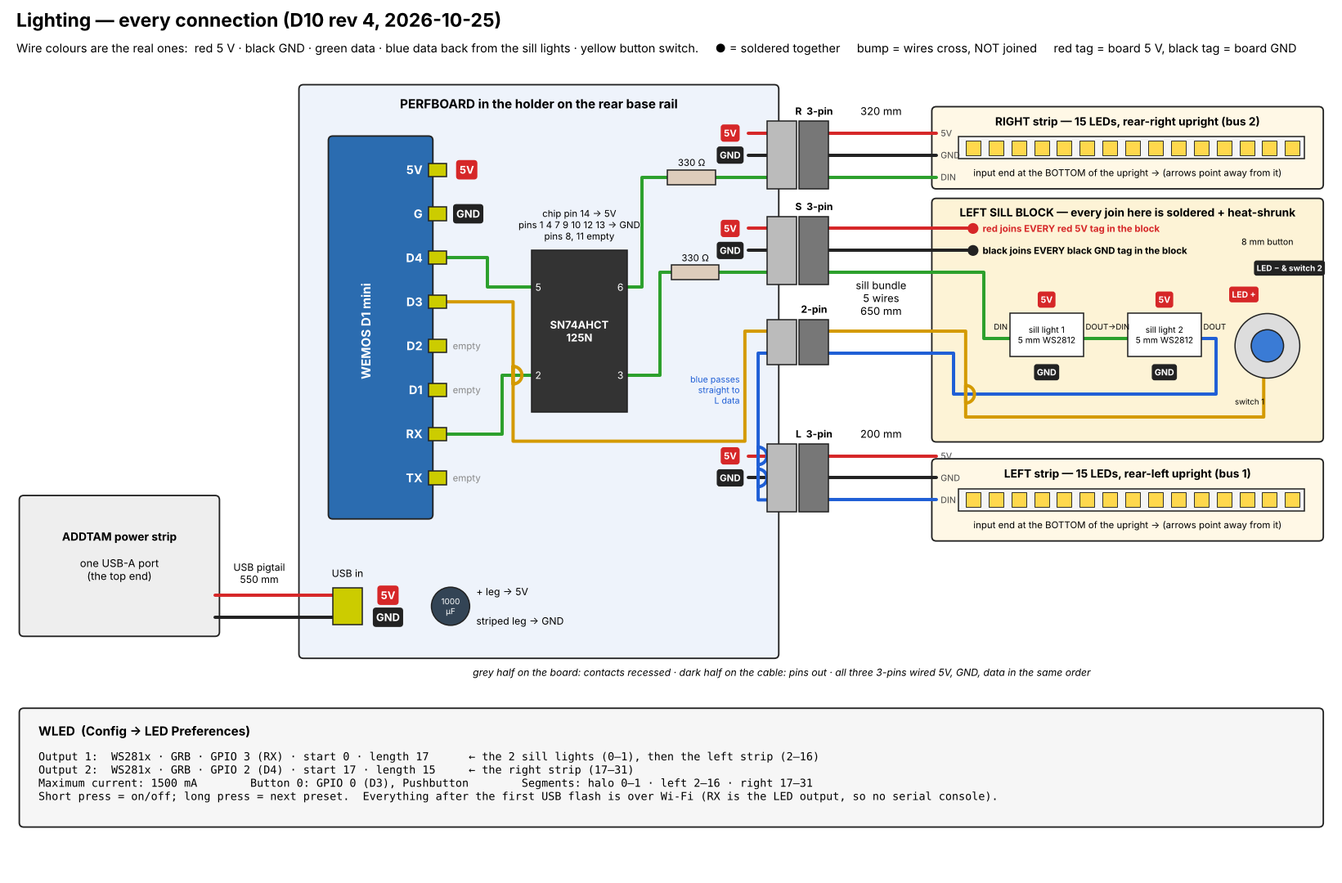
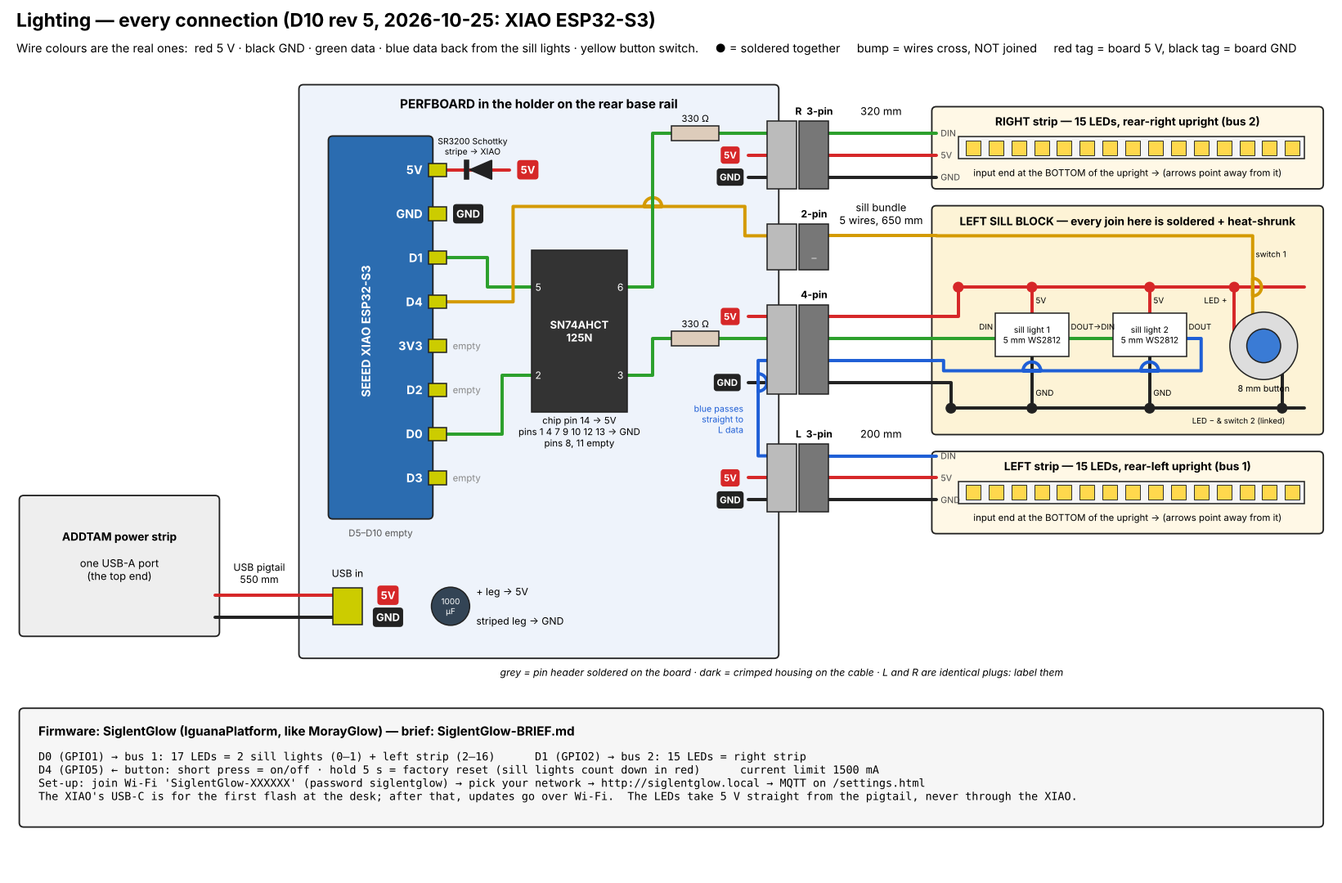
Lighting rev 5: XIAO ESP32-S3 + SiglentGlow firmware brief; wiring sheets
The lighting controller moves from a D1 mini running WLED to a XIAO
ESP32-S3 running SiglentGlow, Gareth's own firmware on IguanaPlatform
(the MorayGlow architecture).

- SiglentGlow-BRIEF.md: the brief for Claude Code (hardware, behaviour,
  REST/WS, HA MQTT with brightness, UI, tests, acceptance)
- parts/wiring/wiring-4-connections.png (src/wiring_connections.py):
  every connection — SN74AHCT125N on both data lines, XIAO D0 bus 1
  (2 sill + 15 left), D1 bus 2 (15 right), D4 button, 5 V into the
  XIAO through an SR3200 Schottky, 2.54 mm locking headers on the
  board with crimped housings (4-pin + 2-pin sill, 3-pin L and R)
- parts/wiring/breadboard-test.png (src/breadboard_test.py): the
  bench test on the SPD3303X-E, every chip leg labelled
- wiring-1..3 stay for the runs and lengths; where they differ, sheet 4
  wins

Claude-Session: https://claude.ai/code/session_01TuDyXwZyKLTSVDyKk418oz

diff --git a/src/wiring_connections.py b/src/wiring_connections.py
@@ -1,7 +1,7 @@
-# wiring_connections.py — every connection in the lighting, on one sheet (D10 rev 4, 2026-10-25; v2 same day: the sill
-# bundle on a 3-pin S (5V, GND, data — the strips' order) + a 2-pin (switch, data back); no 4-pin in hand).
-# Supersedes wiring-1-schematic.png where they differ: SN74AHCT125N level shifter added (bus 1 and bus 2 data pass
-# through it), strips are 15 LEDs each (30/m strip), sill bundle on JST-SM 4-pin + 2-pin, strips on 3-pin pairs.
+# wiring_connections.py — every connection in the lighting, on one sheet (D10 rev 4, 2026-10-25).
+# SN74AHCT125N level shifter on both data lines; strips are 15 LEDs each (30/m strip); every plug is a 2.54 mm locking
+# pin header (KF2510 type) soldered on the board with a crimped housing on the cable (SN-28B crimper): sill bundle on a
+# 4-pin (red, green, blue, black) + 2-pin (yellow), strips on 3-pin L and R.
 # Output: parts/wiring/wiring-4-connections.png
 import os, numpy as np, matplotlib; matplotlib.use("Agg")
 import matplotlib.pyplot as plt
@@ -77,73 +77,78 @@ txt((CX0 + CX1) / 2, 74, "SN74AHCT\n125N", ha="center", color="w", fontsize=8.5,
 IN5, IN2 = 80, 68
 for y, a, b in ((IN5, "5", "6"), (IN2, "2", "3")):
     txt(CX0 + 0.5, y, a, color="w", fontsize=8); txt(CX1 - 0.5, y, b, color="w", fontsize=8, ha="right")
-# connectors (board halves, contacts recessed) at x 104 — every 3-pin in the same order: 5V, GND, data
-J4 = dict(v5=101, gnd=98, data=95); J1 = dict(v5=88, gnd=85, data=82); J2 = dict(sw=74, blu=71); J3 = dict(v5=57, gnd=54, data=51)
+# connectors: 2.54 mm locking pin headers (KF2510 type) soldered on the board, crimped housings on the cables
+J4 = dict(data=101, v5=98, gnd=95); J2 = dict(sw=87, nc=84); J1 = dict(red=76, grn=73, blu=70, blk=67); J3 = dict(data=57, v5=54, gnd=51)
 def conn(ys, name):
     y0, y1 = min(ys) - 1.6, max(ys) + 1.6
     ax.add_patch(Rectangle((103, y0), 4, y1 - y0, fc="#bbb", ec=BLK, zorder=5))
     ax.add_patch(Rectangle((107.4, y0), 4, y1 - y0, fc="#777", ec=BLK, zorder=5))
     txt(109.4, y1 + 1.4, name, ha="center", fontsize=8, weight="bold")
-conn(J4.values(), "R  3-pin"); conn(J1.values(), "S  3-pin"); conn(J2.values(), "2-pin"); conn(J3.values(), "L  3-pin")
-txt(105, 27.5, "grey half on the board: contacts recessed · dark half on the cable: pins out · all three 3-pins wired 5V, GND, data in the same order", ha="center", fontsize=8, style="italic")
+conn(J4.values(), "R  3-pin"); conn(J2.values(), "2-pin"); conn(J1.values(), "4-pin"); conn(J3.values(), "L  3-pin")
+txt(105, 27.5, "grey = pin header soldered on the board · dark = crimped housing on the cable · L and R are identical plugs: label them",
+    ha="center", fontsize=8, style="italic")
 # board wiring
-txt((CX0 + CX1) / 2, 88.5, "chip pin 14 → 5V\npins 1 4 7 9 10 12 13 → GND\npins 8, 11 empty", ha="center", fontsize=7.5)
+txt((CX0 + CX1) / 2, 60.3, "chip pin 14 → 5V\npins 1 4 7 9 10 12 13 → GND\npins 8, 11 empty", ha="center", fontsize=7.5)
 path([(59.4, P["D4"]), (65, P["D4"]), (65, IN5), (CX0, IN5)], GRN)
 path([(59.4, P["RX"]), (67, P["RX"]), (67, IN2), (CX0, IN2)], GRN)
-path([(59.4, P["D3"]), (68.5, P["D3"]), (68.5, 59), (100, 59), (100, J2["sw"]), (103, J2["sw"])], YEL, hops=[(68.5, IN2)])
-def res(x, y):
-    ax.add_patch(Rectangle((x, y - 1), 6.5, 2, fc="#dcb", ec=BLK, zorder=5)); txt(x + 3.25, y + 2, "330 Ω", ha="center", fontsize=7.5)
-path([(CX1, IN5), (86, IN5), (86, J4["data"]), (89.5, J4["data"])], GRN); res(89.5, J4["data"]); path([(96, J4["data"]), (103, J4["data"])], GRN)
-path([(CX1, IN2), (88.5, IN2), (88.5, J1["data"]), (90, J1["data"])], GRN); res(90, J1["data"]); path([(96.5, J1["data"]), (103, J1["data"])], GRN)
-for d in (J4, J1, J3):
+YSW = 91
+path([(59.4, P["D3"]), (68.5, P["D3"]), (68.5, YSW), (100, YSW), (100, J2["sw"]), (103, J2["sw"])], YEL, hops=[(87.5, YSW)])
+for yout, ydst in ((IN5, J4["data"]), (IN2, J1["grn"])):
+    path([(CX1, yout), (87.5, yout), (87.5, ydst), (90, ydst)], GRN)
+    ax.add_patch(Rectangle((90, ydst - 1), 6.5, 2, fc="#dcb", ec=BLK, zorder=5)); txt(93.25, ydst + 2, "330 Ω", ha="center", fontsize=7.5)
+    path([(96.5, ydst), (103, ydst)], GRN)
+for d in (J4, J3):
     path([(100.5, d["v5"]), (103, d["v5"])], RED); tag(98, d["v5"], "5V", RED, fs=7.5)
     path([(100.5, d["gnd"]), (103, d["gnd"])], BLK); tag(98, d["gnd"], "GND", BLK, fs=7.5)
-path([(103, J2["blu"]), (101.8, J2["blu"]), (101.8, J3["data"]), (103, J3["data"])], BLU, hops=[(101.8, J3["v5"]), (101.8, J3["gnd"])])
-txt(99.3, 66, "blue passes\nstraight to\nL data", ha="right", fontsize=7, color=BLU)
+path([(100.5, J1["red"]), (103, J1["red"])], RED); tag(98, J1["red"], "5V", RED, fs=7.5)
+path([(100.5, J1["blk"]), (103, J1["blk"])], BLK); tag(97.6, J1["blk"], "GND", BLK, fs=7.5)
+path([(103, J1["blu"]), (101.8, J1["blu"]), (101.8, J3["data"]), (103, J3["data"])], BLU, hops=[(101.8, J1["blk"])])
+txt(99.8, 62, "blue passes\nstraight to\nL data", ha="right", fontsize=7, color=BLU)
+ax.text(109.4, J2["nc"], "–", ha="center", va="center", fontsize=8, color="#ddd", zorder=9)
 
 # ---------------------------------------------------------------- cables out
-for d, cols in ((J4, dict(v5=RED, gnd=BLK, data=GRN)), (J1, dict(v5=RED, gnd=BLK, data=GRN)), (J3, dict(v5=RED, gnd=BLK, data=BLU))):
-    for k, c in cols.items(): path([(111.4, d[k]), (126, d[k])], c)
-for k, c in (("sw", YEL), ("blu", BLU)): path([(111.4, J2[k]), (126, J2[k])], c)
-txt(118.5, 104, "320 mm", ha="center", fontsize=8.5); txt(118.5, 60, "200 mm", ha="center", fontsize=8.5)
-txt(118.5, 78.5, "sill bundle\n5 wires\n650 mm", ha="center", fontsize=8.5)
+for y, c in ((J4["data"], GRN), (J4["v5"], RED), (J4["gnd"], BLK)): path([(111.4, y), (126, y)], c)
+txt(118.5, 104, "320 mm", ha="center", fontsize=8.5)
+for y, c in ((J3["data"], BLU), (J3["v5"], RED), (J3["gnd"], BLK)): path([(111.4, y), (126, y)], c)
+txt(118.5, 60, "200 mm", ha="center", fontsize=8.5)
+for y, c in ((J2["sw"], YEL), (J1["red"], RED), (J1["grn"], GRN), (J1["blu"], BLU), (J1["blk"], BLK)): path([(111.4, y), (126, y)], c)
+txt(118.5, 90, "sill bundle\n5 wires, 650 mm", ha="center", fontsize=8.5)
 
 # ---------------------------------------------------------------- strips
-def strip(y0, name, d):
+def strip(y0, name, ydata, yv5, ygnd):
     box(126, y0, 52, 10, fc="#fff8e6")
     ax.add_patch(Rectangle((129, y0 + 3.5), 47, 3, fc="#f5f5f5", ec=BLK, zorder=4))
     for i in range(15): ax.add_patch(Rectangle((130 + i * 3.1, y0 + 4), 2, 2, fc="#ffd84d", ec=BLK, lw=0.6, zorder=5))
     txt(152, y0 + 8.6, name, ha="center", weight="bold", fontsize=9)
     txt(152, y0 + 1.6, "input end at the BOTTOM of the upright → (arrows point away from it)", ha="center", fontsize=7.5)
-    for k, lab in (("data", "DIN"), ("v5", "5V"), ("gnd", "GND")): txt(126.6, d[k], lab, fontsize=7, color="#444")
-strip(94, "RIGHT strip — 15 LEDs, rear-right upright (bus 2)", J4)
-strip(46, "LEFT strip — 15 LEDs, rear-left upright (bus 1)", J3)
+    for y, lab in ((ydata, "DIN"), (yv5, "5V"), (ygnd, "GND")): txt(126.6, y, lab, fontsize=7, color="#444")
+strip(94, "RIGHT strip — 15 LEDs, rear-right upright (bus 2)", J4["data"], J4["v5"], J4["gnd"])
+strip(47, "LEFT strip — 15 LEDs, rear-left upright (bus 1)", J3["data"], J3["v5"], J3["gnd"])
 
 # ---------------------------------------------------------------- sill block
-box(126, 59.5, 52, 32, fc="#fdf3d6")
-txt(152, 90.2, "LEFT SILL BLOCK — every join here is soldered + heat-shrunk", ha="center", weight="bold", fontsize=9)
-path([(126, J1["v5"]), (131, J1["v5"])], RED); dot(131, J1["v5"], RED)
-txt(132.3, J1["v5"], "red joins EVERY red 5V tag in the block", fontsize=7.5, color=RED, weight="bold")
-path([(126, J1["gnd"]), (131, J1["gnd"])], BLK); dot(131, J1["gnd"], BLK)
-txt(132.3, J1["gnd"], "black joins EVERY black GND tag in the block", fontsize=7.5, weight="bold")
+box(126, 60.5, 52, 30, fc="#fdf3d6")
+txt(152, 89, "LEFT SILL BLOCK — every join here is soldered + heat-shrunk", ha="center", weight="bold", fontsize=9)
+RR, RB = 80, 63.5
+path([(126, J1["red"]), (129, J1["red"]), (129, RR), (176, RR)], RED); dot(129, RR, RED)
+path([(126, J1["blk"]), (128, J1["blk"]), (128, RB), (176, RB)], BLK); dot(128, RB, BLK)
 def pixel(x, n):
     ax.add_patch(Rectangle((x, 70.5), 10, 6, fc="#fff", ec=BLK, zorder=4))
     txt(x + 5, 73.5, f"sill light {n}\n5 mm WS2812", ha="center", fontsize=6.8)
-    tag(x + 5, 78.3, "5V", RED, fs=7); tag(x + 5, 68.4, "GND", BLK, fs=7)
+    path([(x + 5, 76.5), (x + 5, RR)], RED); dot(x + 5, RR, RED); txt(x + 5.5, 78.2, "5V", fontsize=6.5)
+    path([(x + 5, 70.5), (x + 5, RB)], BLK); dot(x + 5, RB, BLK); txt(x + 5.5, 65.6, "GND", fontsize=6.5)
     return x
-p1 = pixel(136, 1); p2 = pixel(152, 2)
-path([(126, J1["data"]), (132.5, J1["data"]), (132.5, 73), (p1, 73)], GRN); txt(p1 - 0.3, 74.6, "DIN", fontsize=6.3, ha="right")
+p1 = pixel(134, 1); p2 = pixel(150, 2)
+path([(126, J1["grn"]), (p1, J1["grn"])], GRN); txt(p1 - 0.3, 74.6, "DIN", fontsize=6.3, ha="right")
 path([(p1 + 10, 73), (p2, 73)], GRN); txt(p1 + 10.3, 74.6, "DOUT→DIN", fontsize=6.3)
+YB = 68.6
+path([(p2 + 10, 73), (162, 73), (162, YB), (127, YB), (127, J1["blu"]), (126, J1["blu"])], BLU, hops=[(p1 + 5, YB), (p2 + 5, YB)])
 txt(p2 + 10.3, 74.6, "DOUT", fontsize=6.3)
-YB = 65.4
-path([(p2 + 10, 73), (164, 73), (164, YB), (128.3, YB), (128.3, J2["blu"]), (126, J2["blu"])], BLU, hops=[(128.3, J2["sw"])] if False else [])
-path([(126, J2["sw"]), (130, J2["sw"]), (130, 62.3), (170.5, 62.3), (170.5, 67.6)], YEL, hops=[(130, YB)])
-# button
-bx, by = 171, 72
-ax.add_patch(Circle((bx, by), 4.4, fc="#ddd", ec=BLK, zorder=4)); ax.add_patch(Circle((bx, by), 2.2, fc="#3a7bd5", ec=BLK, zorder=5))
-txt(bx - 0.4, 64.4, "switch 1", fontsize=6.3, ha="right")
-tag(bx - 3.2, 79.0, "LED +", RED, fs=6.8); tag(bx + 3.0, 82.6, "LED − & switch 2", BLK, fs=6.5)
-txt(bx, 86.2, "8 mm button", ha="center", fontsize=7)
+bx0 = 165
+ax.add_patch(Circle((bx0 + 5.5, 72), 4.6, fc="#ddd", ec=BLK, zorder=4)); ax.add_patch(Circle((bx0 + 5.5, 72), 2.3, fc="#3a7bd5", ec=BLK, zorder=5))
+txt(bx0 + 5.5, 66.2, "8 mm button", ha="center", fontsize=7)
+path([(126, J2["sw"]), (bx0 + 4, J2["sw"]), (bx0 + 4, 76.4)], YEL, hops=[(bx0 + 4, RR)]); txt(bx0 + 4.4, 84.5, "switch 1", fontsize=6.5)
+path([(bx0 + 1.5, 74), (bx0 + 1.5, RR)], RED); dot(bx0 + 1.5, RR, RED); txt(bx0 - 2.6, 78.2, "LED +", fontsize=6.5)
+path([(bx0 + 8, 69), (bx0 + 8, RB)], BLK); dot(bx0 + 8, RB, BLK); txt(bx0 + 8.4, 61.8, "LED − & switch 2 (linked)", fontsize=6.3, ha="right")
 
 # ---------------------------------------------------------------- WLED
 box(2, 7, 176, 15, fc="#f6f6f6")

diff --git a/src/breadboard_test.py b/src/breadboard_test.py
@@ -1,0 +1,68 @@
+# breadboard_test.py — the lighting breadboard test (XIAO ESP32-S3 + SN74AHCT125N), 2026-10-25. Output: parts/wiring/breadboard-test.png
+import matplotlib; matplotlib.use("Agg")
+import matplotlib.pyplot as plt
+from matplotlib.patches import FancyBboxPatch, Rectangle, Circle
+R,K,Y,G,B="#d62728","#222","#d49a00","#2ca02c","#1f77b4"
+fig,ax=plt.subplots(figsize=(15,8.6)); ax.set_xlim(0,150); ax.set_ylim(0,86); ax.axis("off")
+def tag(x,y,t,c,ha="center",va="center",fs=9.5):
+    ax.text(x,y,t,ha=ha,va=va,fontsize=fs,color="w" if c not in ("#fff",) else K,weight="bold",
+            bbox=dict(boxstyle="round,pad=0.3",fc=c,ec=c))
+def w(pts,c,lw=3):
+    xs,ys=zip(*pts); ax.plot(xs,ys,color=c,lw=lw,solid_capstyle="round",zorder=1)
+ax.text(1,83,"Lighting — breadboard test.  Red tag = + rail (5 V), black tag = − rail (GND).  Every other leg is wired as drawn.",fontsize=12.5,weight="bold")
+# ---- XIAO ESP32-S3
+ax.add_patch(FancyBboxPatch((8,22),20,48,boxstyle="round,pad=0.4",fc="#2b6cb0",ec=K))
+ax.text(14,46,"SEEED XIAO ESP32-S3",color="w",ha="center",va="center",fontsize=11,weight="bold",rotation=90)
+ax.text(18,21,"USB-C end — the diode lets it stay\nplugged in while CH1 is on",ha="center",va="top",fontsize=8.5)
+pins=["5V","GND","D1","D4","3V3","D2","D0","D3"]; py={}
+for i,p in enumerate(pins):
+    y=66-i*6; py[p]=y; ax.add_patch(Rectangle((26,y-1),3,2,fc="#cc0",ec=K,zorder=3))
+    ax.text(24.6,y,p,ha="right",va="center",fontsize=11,color="w",weight="bold")
+w([(29,py["5V"]),(40,py["5V"])],R); ax.add_patch(plt.Polygon([(36.4,py["5V"]-1.3),(36.4,py["5V"]+1.3),(33.4,py["5V"])],fc=K,ec=K,zorder=6)); ax.add_patch(Rectangle((32.7,py["5V"]-1.3),0.6,2.6,fc=K,ec=K,zorder=6)); tag(40,py["5V"],"+",R,ha="left"); ax.text(34.5,py["5V"]+3,"SR3200, stripe → XIAO",ha="center",fontsize=8)
+tag(33,py["GND"],"−",K,ha="left"); w([(29,py["GND"]),(33,py["GND"])],K)
+w([(29,py["D4"]),(33,py["D4"])],B); tag(33,py["D4"],"→ button",B,ha="left")
+for p in ("3V3","D2","D3"): ax.text(30.5,py[p],"empty",va="center",fontsize=8.5,color="#888")
+# ---- chip: notch left; bottom 1..7 L->R, top 14..8 L->R
+cx0,cy0,cw,ch=62,38,49,13
+ax.add_patch(Rectangle((cx0,cy0),cw,ch,fc="#333",ec=K,zorder=2)); ax.add_patch(Circle((cx0,cy0+ch/2),2.2,fc="w",ec=K,zorder=3))
+ax.text(cx0+cw/2,cy0+ch/2,"SN74AHCT125N\nnotch on the LEFT, writing the right way up",color="w",ha="center",va="center",fontsize=9,zorder=3)
+px=lambda i: cx0+4+i*6.8
+top={14:("+",R),13:("−",K),12:("−",K),11:("empty",None),10:("−",K),9:("−",K),8:("empty",None)}
+bot={1:("−",K),4:("−",K),7:("−",K)}
+for i in range(7):
+    x=px(i)
+    ax.add_patch(Rectangle((x-1,cy0+ch),2,3,fc="#bbb",ec=K,zorder=3)); ax.add_patch(Rectangle((x-1,cy0-3),2,3,fc="#bbb",ec=K,zorder=3))
+    t,c=top[14-i]
+    if c: w([(x,cy0+ch+3),(x,cy0+ch+7)],c); tag(x,cy0+ch+8.5,t,c)
+    else: ax.text(x,cy0+ch+6,t,ha="center",fontsize=8.5,color="#888")
+    if i+1 in bot:
+        t,c=bot[i+1]; tag(x,cy0-4.6,t,c)
+# data wires
+import numpy as np
+x2,x3,x5,x6=px(1),px(2),px(4),px(5)
+def hline_hops(x0,x1,y,hops,c):
+    xs=[x0]; ys=[y]
+    for h in sorted(hops):
+        t=np.linspace(np.pi,0,20); xs+= list(h+1.4*np.cos(t)); ys+= list(y+1.4*np.sin(t))
+    xs.append(x1); ys.append(y); ax.plot(xs,ys,color=c,lw=3,zorder=1,solid_capstyle="round")
+w([(29,py["D0"]),(44,py["D0"]),(44,24),(x2,24),(x2,cy0-3)],Y)
+w([(29,py["D1"]),(50,py["D1"]),(50,28.5)],G); hline_hops(50,x5,28.5,[x2,x3],G); w([(x5,28.5),(x5,cy0-3)],G)
+for x,c,lab,yy in ((x3,Y,"LEFT strip (bus 1) — data in",10),(x6,G,"RIGHT strip (bus 2) — data in",4.5)):
+    w([(x,cy0-3),(x,22)],c); ax.add_patch(Rectangle((x-1.6,15),3.2,7,fc="#dcb",ec=K,zorder=3))
+    ax.text(x+2.3,18.5,"330 Ω",fontsize=9,va="center"); w([(x,15),(x,yy),(118,yy)],c); tag(119,yy,"→ "+lab,c,ha="left")
+ax.text(x2+3,31.2,"wires hop = they cross, not joined",fontsize=7.5,color="#555")
+# ---- other parts, as tagged boxes
+ax.add_patch(FancyBboxPatch((116,58),31,19,boxstyle="round,pad=0.4",fc="#f4f4ff",ec=K))
+ax.text(131.5,74.5,"SPD3303X-E  CH1  5.00 V  1.0 A",ha="center",fontsize=9.5,weight="bold")
+tag(124,68,"+ terminal → +",R); tag(140,68,"− terminal → −",K)
+ax.text(131.5,61,"turn CH1 on only when every wire is in",ha="center",fontsize=8.5,style="italic")
+ax.add_patch(FancyBboxPatch((116,34),31,19,boxstyle="round,pad=0.4",fc="#fff",ec=K))
+ax.text(131.5,50,"each strip's power wires",ha="center",fontsize=9.5,weight="bold")
+tag(124,43,"5 V wire → +",R); tag(140,43,"GND wire → −",K)
+ax.text(131.5,37,"1000 µF: + leg → +, striped leg → −",ha="center",fontsize=9)
+ax.add_patch(FancyBboxPatch((2,1),44,14,boxstyle="round,pad=0.4",fc="#fff",ec=K))
+ax.add_patch(Circle((8,8),4,fc="#ddd",ec=K)); ax.add_patch(Circle((8,8),2,fc=B,ec=K))
+ax.text(14,12,"8 mm button",fontsize=9.5,weight="bold")
+ax.text(14,8.3,"switch pin → D4,  other switch pin → −",fontsize=9,va="center")
+ax.text(14,4.3,"LED + leg → +,  LED − leg → −",fontsize=9,va="center")
+import os; fig.savefig(os.path.join(os.path.dirname(os.path.abspath(__file__)), "..", "parts", "wiring", "breadboard-test.png"),dpi=110,bbox_inches="tight")

diff --git a/SiglentGlow-BRIEF.md b/SiglentGlow-BRIEF.md
@@ -1,0 +1,115 @@
+# SiglentGlow — firmware brief for Claude Code
+
+**Owner:** Gareth Cooke · **Written:** 2026-10-25 · **Hardware design lives in:** `C:\Development\3DPrinting\SiglentTower` (wiring sheet `parts/wiring/wiring-4-connections.png`)
+
+## 1. Goal
+
+Write the firmware and on-device web UI for **SiglentGlow**, the backlight controller in Gareth's Siglent bench-instrument tower. It drives two short WS2812B strips and two 5 mm WS2812 "sill" pixels from a Seeed **XIAO ESP32-S3**. Build it as a sibling of **MorayGlow**, with the same architecture, the same shared libraries and the same conventions, so the two projects look and behave like one family.
+
+Create the project at **`C:\Development\Projects\SiglentGlow`**, beside `MorayGlow`, `IguanaPlatform` and `IguanaCommon`. Read these before writing anything:
+
+- `C:\Development\Projects\MorayGlow\CLAUDE.md` and `README.md`: architecture, conventions, build commands, library rules
+- `MorayGlow\MorayServer\` (`src/main.cpp`, `src/webserver.cpp`, `src/mqtt.cpp`, `include/state.h`, `include/config.h`, `platformio.ini`, `data/`, `test/`): the template to mirror
+- `C:\Development\Projects\IguanaPlatform\` (`EspProvision`, `EspDevice`, `EspMqttBase`, `EspLogger`, `data/`, `scripts/gen_build_info.py`)
+- `C:\Development\Projects\IguanaCommon\IguanaLib\` (`ButtonStatus`, `TwoStateValue`)
+
+**Do not modify IguanaPlatform, IguanaCommon or MorayGlow.** If something in them blocks you, stop and say what and why.
+
+## 2. Hardware (fixed — design the firmware to this)
+
+| Item | Detail |
+|---|---|
+| MCU | Seeed XIAO ESP32-S3 (`board = seeed_xiao_esp32s3`) |
+| Bus 1 data | **D0 = GPIO1** → 74AHCT125 level shifter → 330 Ω → sill pixel 1 → sill pixel 2 → left strip. **17 LEDs**: indices 0–1 sill, 2–16 left strip |
+| Bus 2 data | **D1 = GPIO2** → 74AHCT125 → 330 Ω → right strip. **15 LEDs** |
+| Button | **D4 = GPIO5**, momentary to GND, `INPUT_PULLUP` (the same pin as MorayGlow) |
+| LEDs | WS2812B, colour order **GRB**, 5 V |
+| Power | 5 V from one USB port on the bench power strip; the LEDs are fed directly, and the XIAO's 5V pin is fed through a Schottky diode. Current budget for all LEDs: **1500 mA** |
+| Avoid | GPIO3 (ESP32-S3 strapping pin), and GPIO0, GPIO45 and GPIO46, as MorayGlow does |
+
+The strip length may change later (the backlight might go to a denser strip). Put every LED count in **one place** (`config.h`), and derive the bus split and index ranges from those constants.
+
+## 3. Behaviour
+
+### 3.1 Light state
+- State is **on/off, colour (`#rrggbb`) and brightness (0–255)**. Static colour only: no effects, no cycle mode.
+- The **strips and both sill pixels** show the state's colour at the state's brightness, and are all dark when off.
+- **Restore the last state on boot**: persist on, colour and brightness in NVS (Preferences, a namespace of its own), and write at most once, 5 s after the last change, to spare the flash. First boot defaults: on, `#ffffff`, brightness 128.
+- **Current limit**: cap the total draw at 1500 mA at 5 V with the LED library's power limiter (FastLED: `setMaxPowerInVoltsAndMilliamps(5, 1500)`), applied on top of the user's brightness.
+
+### 3.2 Sill pixels as a status light ("both")
+The sill pixels follow the strips (3.1) **except** when one of these takes over, highest priority first:
+1. **Factory-reset countdown**: the button has been held for ≥ 1 s. The sill pixels blink red, getting faster from 800 ms to 80 ms per half-cycle as the hold approaches 5 s (as MorayGlow's status LED does). At 5 s they flash red 5 times, all LEDs go dark, then `Provision.factoryReset()`.
+2. **Setup (AP) mode**: the sill pixels pulse amber slowly (about a 2 s breathing cycle). The strips stay dark.
+3. **Boot**: two white blinks of the sill pixels (200 ms on / 200 ms off) before the state is applied, matching MorayGlow's boot blink.
+
+### 3.3 Button (D4)
+- **Short press** (released before 1 s): toggle on/off. Apply the change, broadcast it over the WebSocket, publish to MQTT, and schedule the NVS save.
+- **Hold ≥ 1 s**: the reset countdown in 3.2. Releasing before 5 s cancels it and changes nothing.
+- Debounce with `ButtonStatus`, as MorayGlow does.
+
+### 3.4 Provisioning, network and OTA
+Use **IguanaPlatform `EspProvision`**, exactly as MorayGlow's `setup()` does:
+`Provision.begin("siglentglow", "SiglentGlow", cfg)` with `apPassword = "siglentglow"`, `nvsNamespace = "siglentglow"`, `otaPassword = OTA_PASSWORD` (`"password"` first-boot default), `friendlyHostname = "siglentglow"` (→ `http://siglentglow.local`), `serviceType = "siglentglow"`. Station routes and MQTT setup go in `Provision.onStation(...)`. `Provision.loop()` runs in `loop()`.
+
+### 3.5 REST + WebSocket (mirror MorayGlow's `webserver.cpp`)
+| Method | Path | Body | Response |
+|---|---|---|---|
+| GET | `/api/state` | — | `{"on":bool,"color":"#rrggbb","brightness":0-255}` |
+| POST | `/api/power` | `{"on":bool}` | state JSON |
+| POST | `/api/color` | `{"color":"#rrggbb"}` | state JSON (400 if not a valid hex colour) |
+| POST | `/api/brightness` | `{"brightness":0-255}` | state JSON (400 if missing or out of range) |
+| WS | `/ws` | — | push the state JSON to every client on any change, and to a new client on connect |
+
+Every state change from any source (REST, WS, MQTT, button) goes through one path, e.g. `applyLedState()` → `broadcastState()` → `Mqtt.publishState()` → schedule the NVS save. The network-setting and device-info routes come from EspProvision's common endpoints; don't duplicate them.
+
+### 3.6 MQTT / Home Assistant
+- Subclass `EspMqttBase` as `MqttLight`, as MorayGlow does.
+- **Broker host and port from NVS**: `Provision.getMqttHost(MQTT_HOST)` / `getMqttPort(MQTT_PORT)`, with user and password from `getMqttUser()` / `getMqttPass()`, all settable on `/settings.html`. **If the host is empty, don't start MQTT at all** (no 5-second reconnect loop to nowhere).
+- Topics: `<device-id>/state` and `<device-id>/command`; discovery at `homeassistant/light/<device-id>/config` (retained), republished on every reconnect.
+- Discovery: JSON schema, `supported_color_modes: ["rgb"]`, **`brightness: true`**, `brightness_scale: 255`, `device` block with name `SiglentGlow`, model `XIAO ESP32-S3`, manufacturer `IguanaWare`.
+- Command payload (HA JSON schema): `{"state":"ON"|"OFF","color":{"r","g","b"},"brightness":N}`, with any key optional.
+- **State payload must be HA-compliant**, which differs from the REST JSON: `{"state":"ON","color_mode":"rgb","brightness":N,"color":{"r":..,"g":..,"b":..}}`, retained. *(MorayGlow publishes its REST-style `{"on":..}` on the state topic, which HA's JSON schema doesn't read. Don't copy that, and don't fix MorayGlow either: just mention it in your final summary.)*
+
+### 3.7 Web UI (`data/`, LittleFS, no build step)
+- `index.html` + `js/app.js` + `js/siglent.js` (a UMD utility module like `moray.js`): the power button, MorayGlow's LED-strip colour picker, and a **brightness slider** (sending at most every 200 ms while dragging), with a status line and the light/dark theme toggle. Links to `settings.html` and `setup.html`.
+- `setup.html` and `settings.html`: take them from IguanaPlatform's `data/` / MorayGlow's `data/`. **Reconcile the stylesheet path**: IguanaPlatform's pages link `/style.css`, while MorayGlow's link `css/style.css`. Use one stylesheet that every page links correctly.
+- Title and heading: "SiglentGlow". There's only one device, so leave out `devices.html`.
+
+### 3.8 LED driver
+- Use **FastLED** (or NeoPixelBus if FastLED misbehaves on this core) on the ESP32-S3's **RMT** peripheral, with **two outputs**: one `CRGB` array of `LEDS_BUS1 + LEDS_BUS2` and two `addLeds` calls on GPIO1 and GPIO2.
+- Pick a library version that builds against the Arduino core the `espressif32` platform in MorayGlow's `platformio.ini` resolves to. Pin the version in `lib_deps`.
+- WS2812 timing must not glitch while Wi-Fi is busy (web page open, MQTT traffic). RMT handles that, but say so in the summary if you saw otherwise.
+
+## 4. Project layout (mirror MorayGlow)
+
+```
+SiglentGlow/
+├── CLAUDE.md              # adapted from MorayGlow's: build commands, architecture, pins, API, MQTT
+├── README.md              # short: what it is, hardware, how to flash, how to set it up
+├── .gitignore             # as MorayGlow's
+└── SiglentServer/
+    ├── platformio.ini     # envs: xiao_esp32s3, xiao_esp32s3_ota (upload_port siglentglow.local), native
+    │                      # lib_extra_dirs = ../../IguanaCommon and ../.. ; extra_scripts = ../../IguanaPlatform/scripts/gen_build_info.py
+    ├── include/           # config.h (pins, LED counts, current limit, MQTT fallback, OTA default), state.h, mqtt.h, webserver.h, leds.h
+    ├── src/               # main.cpp, leds.cpp, mqtt.cpp, webserver.cpp
+    ├── data/              # web UI (3.7)
+    └── test/test_state.cpp
+```
+
+`state.h` stays **header-only with `inline` functions and `#ifndef ARDUINO` guards** so it compiles natively: `stateToJson(on, color, brightness)`, `haStateToJson(...)`, `rgbToHex`, `hexToRgb`, `isValidHexColor`, `parseMqttCommand(payload, on, color, brightness)` (it updates only the keys present, clamps brightness to 0–255, and returns false on bad JSON).
+
+## 5. Acceptance — done when
+
+1. `pio run -e xiao_esp32s3` builds with no errors and no new warnings in project code.
+2. `pio test -e native` passes, covering every function in `state.h`: valid and invalid colours, brightness clamping, partial MQTT commands, bad JSON, and the HA state payload shape.
+3. `pio run -e xiao_esp32s3 -t buildfs` builds the LittleFS image.
+4. The code reads like MorayGlow: same file split, naming and comment style, and library rules from MorayGlow's CLAUDE.md (ArduinoJson v7 `JsonDocument`, `setBufferSize(512)`, POST bodies in `onBody`, async Wi-Fi scan).
+5. A git repo is initialised with one commit, its message in MorayGlow's style (a subject line, then a bullet body).
+6. Your final summary lists: what you built, any deviations from this brief and why, the MorayGlow HA-state-topic note (3.6), and the flashing steps for Gareth as a numbered list (USB flash, uploadfs, join `SiglentGlow-XXXXXX` / password `siglentglow`, pick Wi-Fi, open `siglentglow.local`, set the MQTT host on `/settings.html`).
+
+Use the PlatformIO path from MorayGlow's CLAUDE.md (`& "$env:USERPROFILE\.platformio\penv\Scripts\pio.exe"`). No hardware is needed for 1–5: Gareth will flash and bench-test it himself on the breadboard.
+
+## 6. Out of scope
+
+Effects, presets, segments as separate lights, sound reactivity, `devices.html` / peer discovery, and any change to the shared libraries.
